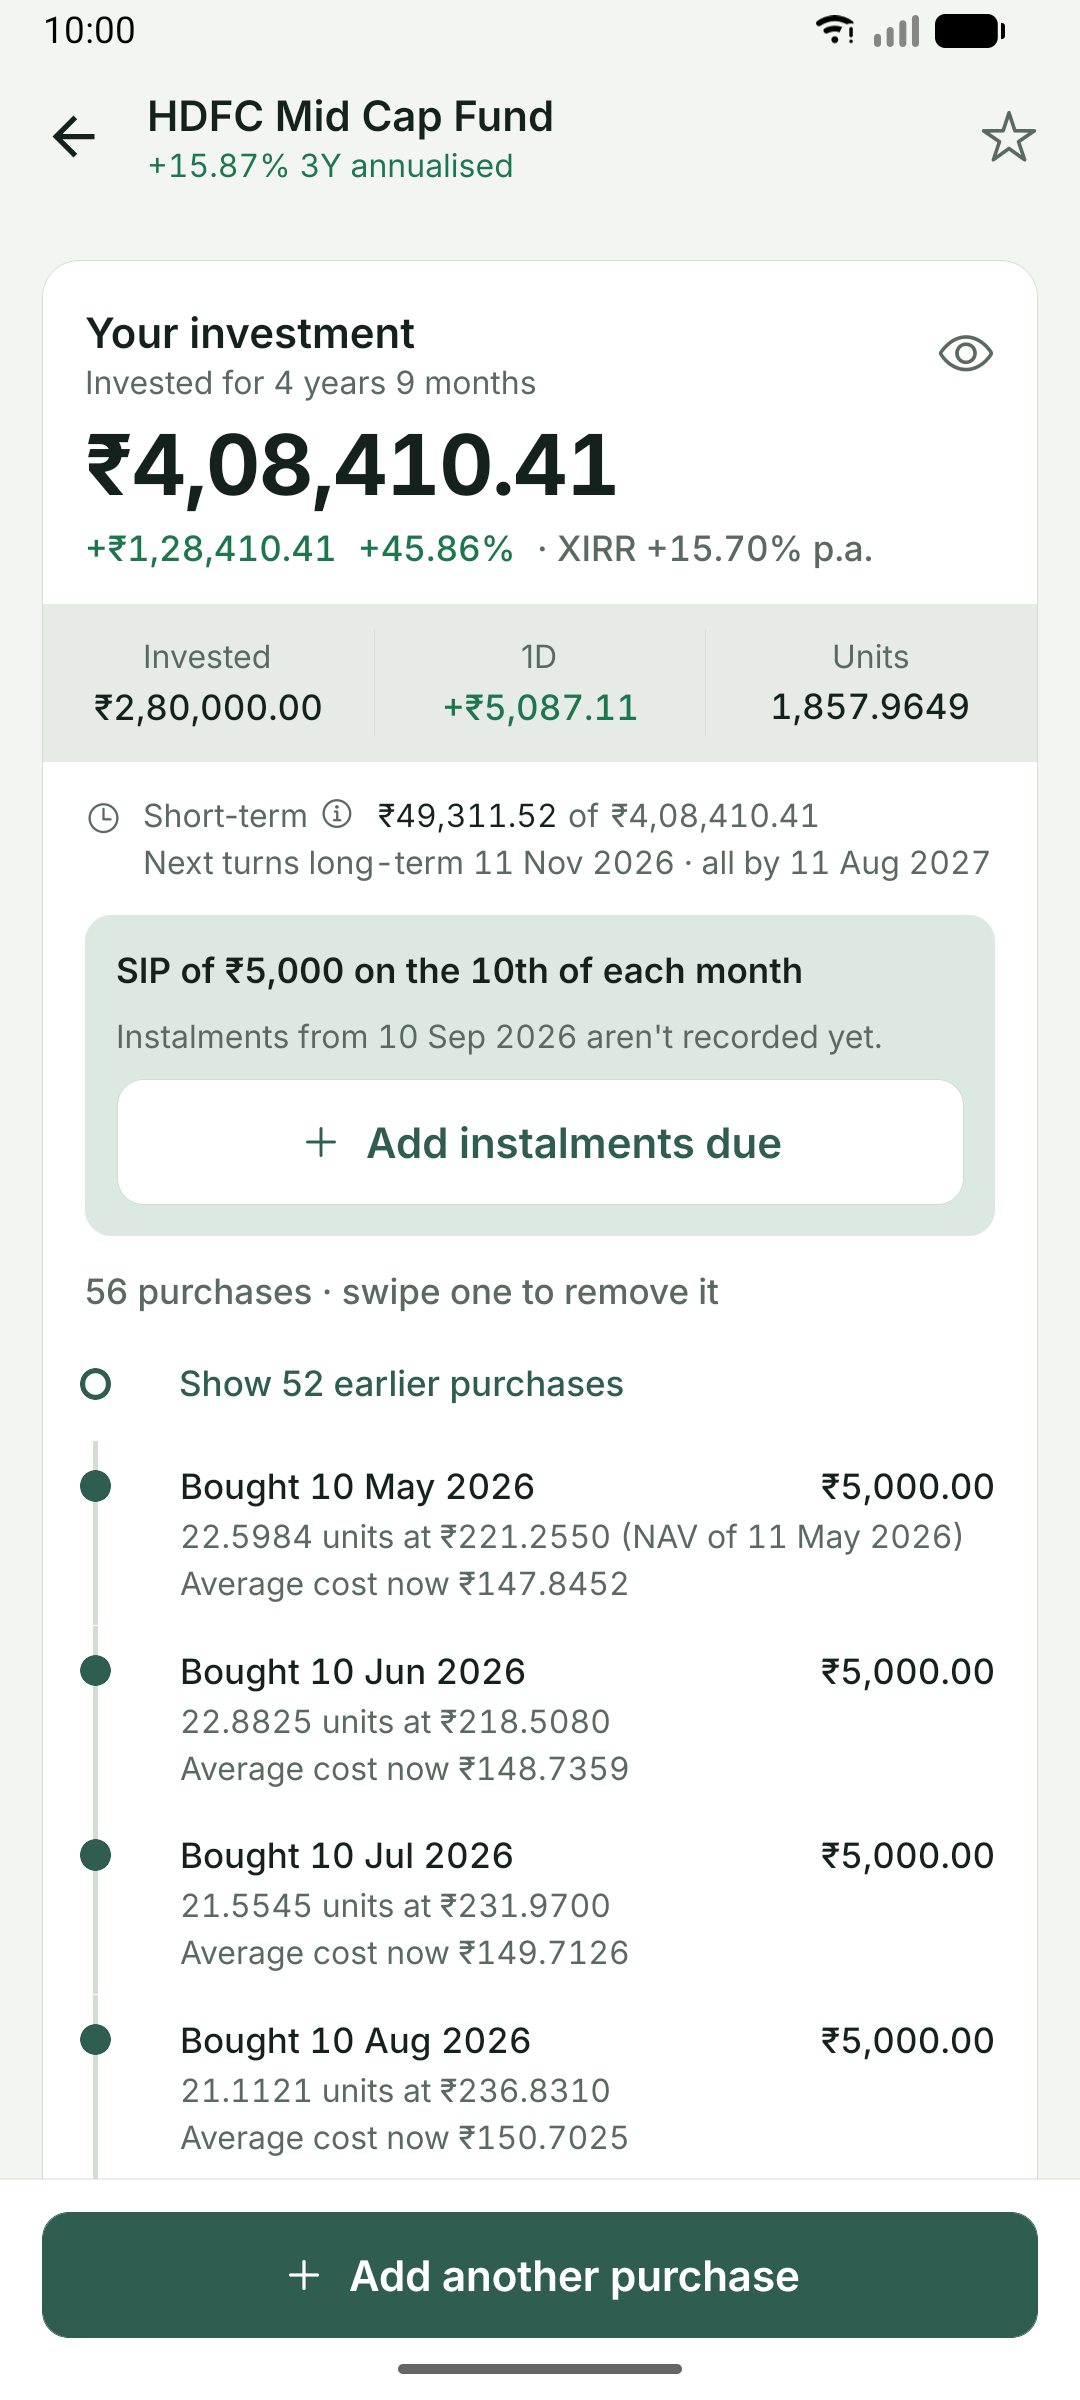
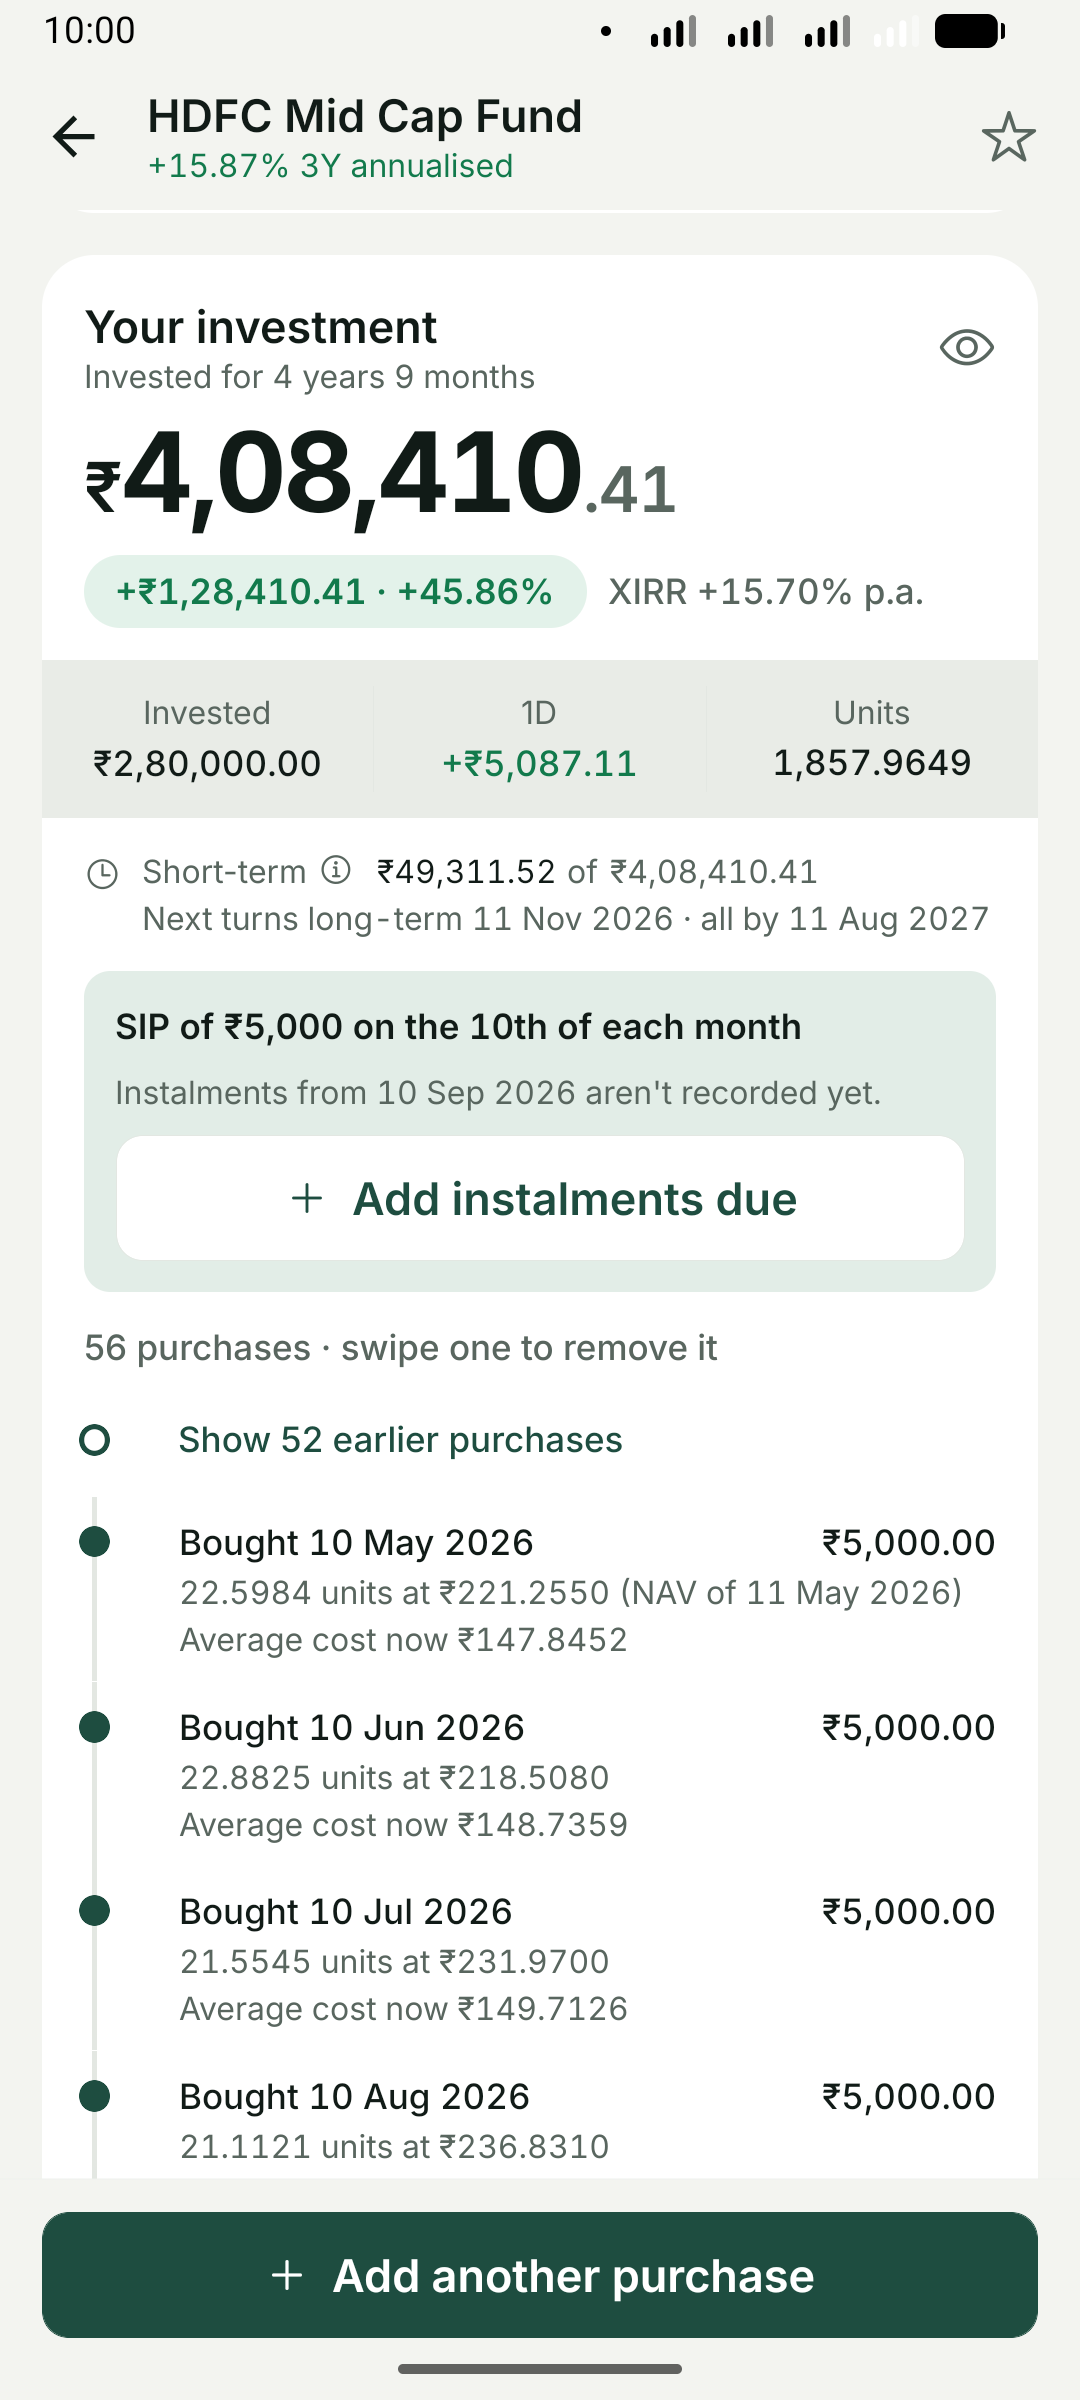
design V5: README screenshots and tour retaken in the new look; DESIGN.md visual pass section

diff --git a/docs/DESIGN.md b/docs/DESIGN.md
@@ -6,10 +6,10 @@ Every component below was decided by the data it shows, then checked against how
 
 ## Direction: patient money
 
-- **Palette:** a deep "banyan" green as the primary colour, ink text on a cool paper background, and saffron-gold only for the watch star. Gains and losses are muted, because long-term money shouldn't flash like a trading screen. Dark mode has its own tuned values, not an inverted palette. The colours are tokens in `src/theme/tokens.ts`; no screen hard-codes a colour.
-- **Type scale** (system font, tabular figures so numbers line up): `display` 28 for a tab's title, `figure` 32 for the one number a screen is about, `title` 20 for a fund's name, `heading` 16 for section titles, `body` 15, `labelStrong` 13/600 for a fund's name in a list, `label` 13 for values and meta, `caption` 12 for dates and footnotes. No screen sets its own font size or weight.
+- **Palette:** a deep "banyan" green as the primary colour, ink text on a warm paper background with white cards, and saffron-gold only for the watch star. Gains and losses are muted, because long-term money shouldn't flash like a trading screen. Dark mode has its own tuned values, not an inverted palette. The colours are tokens in `src/theme/tokens.ts`; no screen hard-codes a colour.
+- **Type scale** (Inter, tabular figures so numbers line up): `display` 30 for a tab's title, `money` 42 and `hero` 46 for the one figure a screen is about, `figure` 32, `title` 22 for a fund's name, `heading` 17 for section titles, `rowTitle` 15/600 for a fund's name in a list, `body` 15, `labelStrong` 13/600, `label` 13 for values and meta, `caption` 12 for dates and footnotes. No screen sets its own font size or weight.
 - **Chrome:** no separate header bar. Each tab draws a large title on the page with its one action on the right (Holdings: hide amounts); stacked screens use a header the colour of the page, without a shadow. The tab bar uses the surface colour with a soft pill behind the active icon, the pattern Android users know from Material 3, and clears the gesture bar.
-- **One selector style:** ranges, amounts, periods and holding views all use the same equal-width row with a soft pill on the choice, instead of a mix of bordered chips.
+- **One selector style:** ranges, amounts, periods and modes all use the same toggle: a grey track with a white thumb that slides to the choice.
 - **Show the takeaway first, the detail on request.** Nothing is put on screen just because the data exists.
 
 ## Components
@@ -96,6 +96,25 @@ Motion tokens are `fast` 150 ms, `base` 220 ms and `slow` 320 ms, on the native 
 | Button press | scales to 0.97 and back | — |
 
 Never animated: money and percentages (a counting number shows wrong values on the way), and screen transitions (they stay native to each platform).
+
+## Visual pass (12 Oct 2026)
+
+The app was correct and clean but read like a careful template: every block in an outlined card on a grey page, one grey for every secondary job, money set in one size, dashed rules, and a chart-library blue and orange fighting the green. The visual pass followed a redesign drawn in claude.ai (`MF Explorer redesign`), approved by the user. Presentation only: no domain, API, query or store code changed.
+
+| Element | Before | After | Why |
+|---|---|---|---|
+| Surfaces | outlined cards on a grey page | white cards with radius 20 on a warm page, no border, no shadow; lines only as inset hairlines inside a card | one surface level reads calmer, and nothing competes with the figures |
+| Secondary text | several greys | one, `#59665F` (5.4:1 on the page) | consistent hierarchy, AA everywhere |
+| Money | one size | `MoneyHero`: rupees 42, ₹ and paise smaller, paise grey | the eye lands on the rupees, as on a price tag; read whole by screen readers |
+| Changes | coloured text | `ChangeChip`: a tinted pill "+₹1,31,214.58 · +23.14%" | gain or loss is seen at a glance; the sign and "gain of"/"loss of" stay |
+| Status | a "Stale" badge beside a date | one chip, "Stale · 01 Jun 2018" | the status and its reason together |
+| Chart colours | `#2A78D6`, `#EB6834` | indigo `#3D5A98`, saffron `#D29A2E` (then teal, berry); validated for colour blindness in both modes | calmer next to the green, still distinct; saffron always has a text label |
+| Monograms | rounded squares | circles (44 on the fund page, 40 in rows, 36 compact) | reads as a logo stand-in, not a button |
+| Selectors | a pill on text, or a track | always a toggle: grey track, sliding white thumb | one control to learn; the user asked for the chart ranges to look like a toggle |
+| Holdings | value in a card, rows on the page, "<> Current (invested)" | the value as the hero on the page, one strip for Invested, Today and XIRR, "Your funds" with two small buttons, rows in one card | the one number first; every figure has one place |
+| Fund page | three ⓘ tags, return 32 pt, chart with side margins, key facts as a grid with lines | tag chips that open the glossary, return 46 pt with "p.a.", chart edge to edge, key facts in a card | the return is the headline; the chart gets the full width |
+| Explore and Watchlist | rows on the page, the fund house as a third line, every row dated | rows in one card, two lines, the shared NAV date in the list header | denser and calmer; a date appears only where it differs |
+| Sample banner | an info alert | a slim 44-pt bar with a text Clear | nothing is wrong, so it shouldn't look like a warning |
 
 ## What we deliberately left out
 

diff --git a/docs/BUILD_LOG.md b/docs/BUILD_LOG.md
@@ -494,3 +494,4 @@ Presentation only: nothing in `src/domain`, `src/api`, `src/query` or `src/store
 - **V4. Explore and Watchlist.** Explore: a 52-tall white search field with radius 16 and no border; Recently viewed rows in one white card with inset hairlines, 15/20 names and NAVs, a "Stale · 01 Jun 2018" status chip; collections as tonal cards, each with its own tint from the fund-mark palette (light and dark) and a coloured icon. Watchlist: Explore's two-line row (name | NAV, plan and option | the day's ₹ change and %), in one white card; the fund-house line is gone (the monogram carries it); the date most rows share moves to a "Your watchlist · NAV · 1D · as of …" header (`currentNavDate`, the Recently viewed rule) and a row prints its own date only when it differs; a stale fund shows "Stale · date" as a chip. Watchlist row tests updated for the new date rule (one added). Checked on the emulator in light, dark and at 2× text (section headings capped at 1.3× so they stay on one line).
 - **Sweep of the other screens.** Search results moved into one white card like every other list (15/20 names, inset hairlines); the sort sheet's separators use the hairline colour. Checked: the SIP form, the NAV history list and the sort sheet pick up the new tokens without changes.
 - **One selector style, and the last outlines.** Every selector is now a toggle (the track variant is the default): Compare's period, the consistency hold length, the replay's amount and period join the chart range, as the user asked for the timelines. The "Worst fall" box sits on the loss tint and the NAV calendar's day detail on a white card instead of outlines; Compare's fund picker is a white card. "If you had invested" shows its result in `MoneyHero` with a `ChangeChip`; `MoneyHero` gained a `private` flag so this hypothetical amount stays visible when amounts are hidden.
+- **V5. Screenshots, tour and DESIGN.md.** All nine README screenshots retaken in the new look from the sample portfolio (03–05 from a scroll position with nothing sliced under the header), and the tour GIF re-recorded (27 s, 2.0 MB; it now ends on a tab press). DESIGN.md gained a "Visual pass" section (before, after and why for each element) and its direction notes were updated (palette, type scale, one toggle style).

diff --git a/README.md b/README.md
@@ -2,7 +2,7 @@
 
 Search Indian mutual funds, read a fund's NAV history, keep a watchlist, and record holdings to see their current value and return. Built with Expo (managed workflow) and TypeScript on the free [mfapi.in](https://www.mfapi.in/) API.
 
-<img src="docs/screenshots/tour.gif" alt="A 27-second tour: Holdings, a fund with a running SIP, a fund chart that opens on 3 years, scrubbing it, the 1Y and All ranges, the watchlist" width="280">
+<img src="docs/screenshots/tour.gif" alt="A 27-second tour: Holdings, a fund with a running SIP, a fund chart that opens on 3 years, scrubbing it, the 1Y and All ranges, the watchlist, then a tab press to Explore" width="280">
 
 ## Two-minute tour
 
